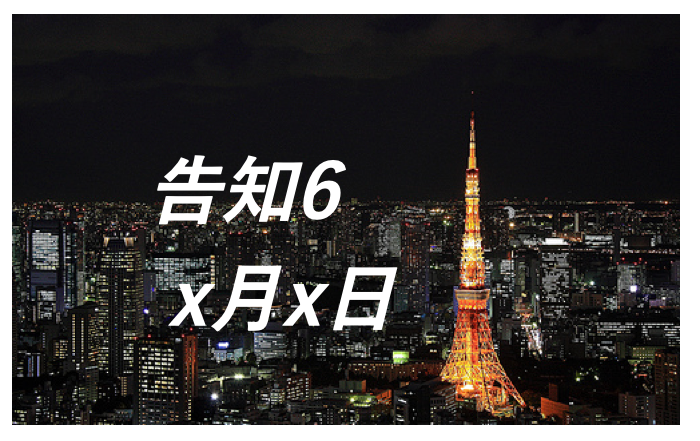
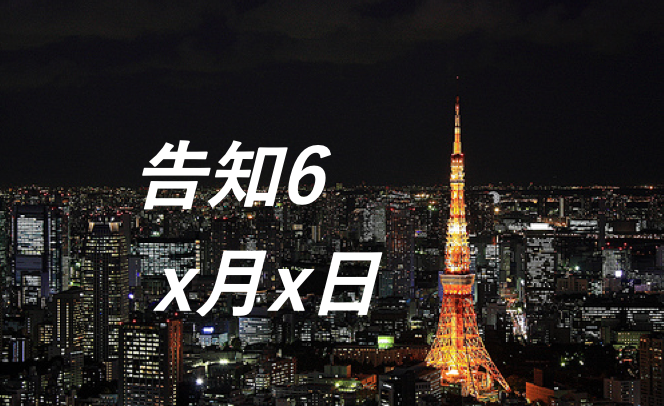
バナー

diff --git a/include/header.html b/include/header.html
@@ -14,7 +14,7 @@
       integrity="sha384-ggOyR0iXCbMQv3Xipma34MD+dH/1fQ784/j6cY/iJTQUOhcWr7x9JvoRxT2MZw1T"
       crossorigin="anonymous"
     />
-    <link rel="stylesheet" href="footer.css" />
+    <link rel="stylesheet"  href="footer.css" />
     <!-- Font Awesome icon 
     <script
       src="https://kit.fontawesome.com/a06a3b6749.js"
@@ -48,8 +48,12 @@
         height: 40vw;
         margin: 0 auto;
         object-fit: cover;
-        
       }
+      .container-fluid{
+        padding-left: 0%;
+        padding-right: 0%;
+      }
+
     </style>
   </head>
 
@@ -184,7 +188,7 @@
         {
           $(".regular").slick({
             autoplay: true,
-            autoplaySpeed: 3000,
+            autoplaySpeed: 2000,
             dots: true,
             accessibility: true,
             adaptiveHeight: true,
@@ -196,6 +200,20 @@
           });
         });
       </script>
+
+      <!-- コンテンツ -->
+      <div class="container-fluid">
+        <div class="row">
+          <div class="col-sm-8 order-sm-last "> <!--右カラム-->
+            <div class="container-fluid">
+              <a href="#"><img src="src/img/request.png" class="mx-auto d-block img-fluid border"></a>
+            </div>
+          </div> 
+          <div class="col-sm-4 bg-dark"><!--左カラム-->
+            
+          </div>
+        </div>
+      </div>
 
       
 
